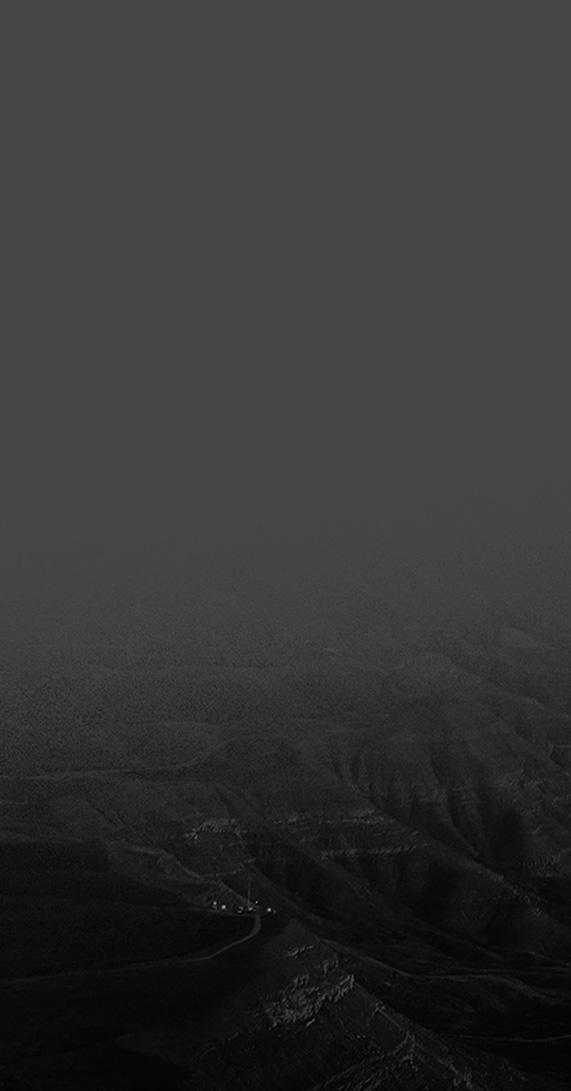
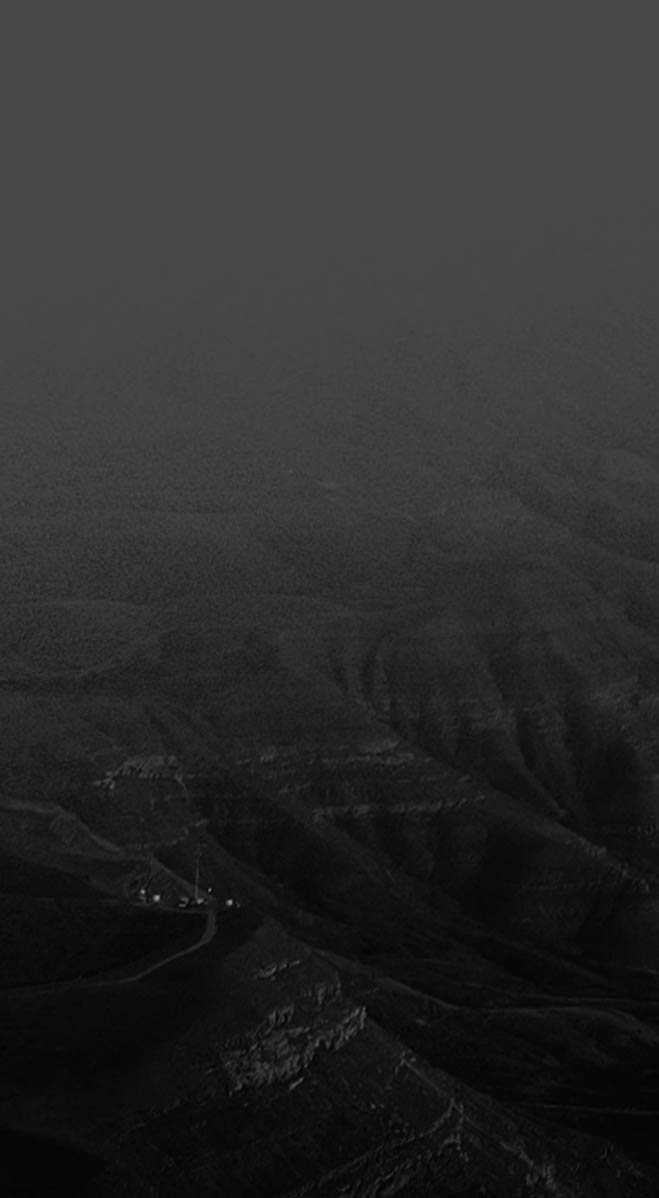
refactor sidemenu background

diff --git a/src/views/docs/components/sidebar.js b/src/views/docs/components/sidebar.js
@@ -8,7 +8,11 @@ class Sidebar extends React.Component {
     return {
       container: {
         padding: `${theme.gutter / 2}px`,
-        background: `#050505 url(../static/bg-radium.jpg) no-repeat bottom center`
+        backgroundColor: "#050505",
+        backgroundImage: "url(../static/bg-radium.jpg)",
+        backgroundRepeat: "no-repeat",
+        backgroundSize: "cover",
+        backgroundPosition: "bottom left"
       },
       header: {
         display: "flex",
